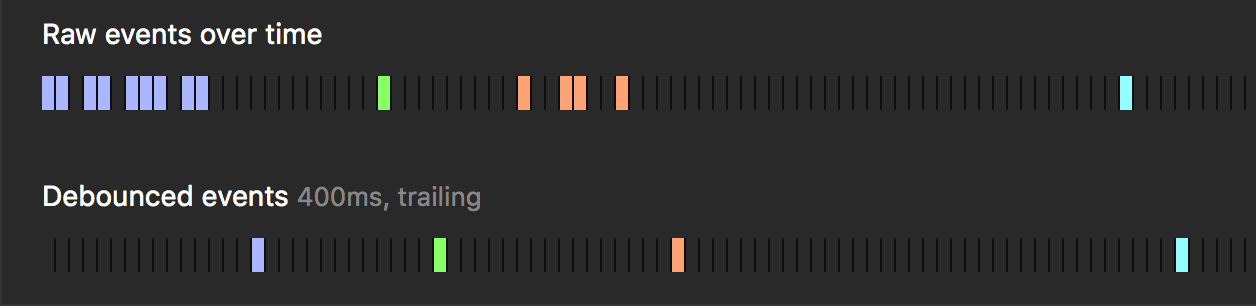
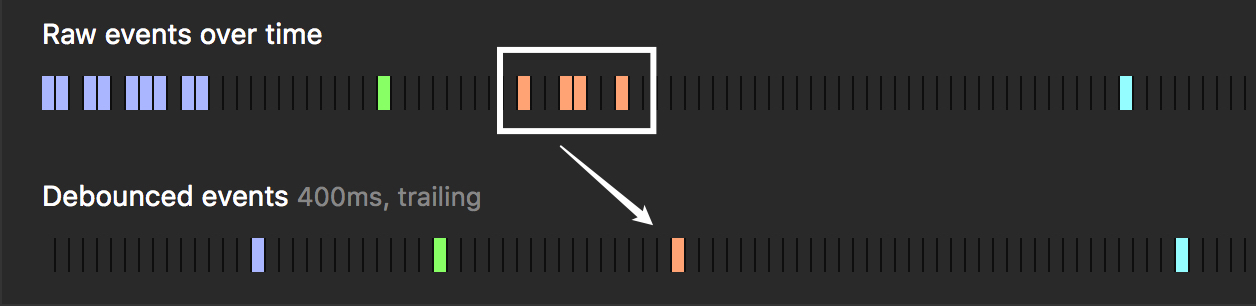
Site updated: 2017-04-12 18:57:36

diff --git a/2017/03/17/debounce-and-throttle/index.html b/2017/03/17/debounce-and-throttle/index.html
@@ -84,18 +84,19 @@
 
 
 
-<meta name="description" content="简介：总结 debounce 和 throttle 函数的使用场景">
+<meta name="description" content="简介：介绍 debounce 和 throttle 的区别和使用场景">
 <meta property="og:type" content="article">
 <meta property="og:title" content="debounce 和 throttle 总结">
 <meta property="og:url" content="http://yoursite.com/2017/03/17/debounce-and-throttle/index.html">
 <meta property="og:site_name" content="Joe">
-<meta property="og:description" content="简介：总结 debounce 和 throttle 函数的使用场景">
-<meta property="og:image" content="http://yoursite.com/images/throttle_edited.jpg">
-<meta property="og:updated_time" content="2017-04-12T09:43:20.000Z">
+<meta property="og:description" content="简介：介绍 debounce 和 throttle 的区别和使用场景">
+<meta property="og:image" content="http://yoursite.com/images/debounce.jpg">
+<meta property="og:image" content="http://yoursite.com/images/throttle.jpg">
+<meta property="og:updated_time" content="2017-04-12T10:57:21.000Z">
 <meta name="twitter:card" content="summary">
 <meta name="twitter:title" content="debounce 和 throttle 总结">
-<meta name="twitter:description" content="简介：总结 debounce 和 throttle 函数的使用场景">
-<meta name="twitter:image" content="http://yoursite.com/images/throttle_edited.jpg">
+<meta name="twitter:description" content="简介：介绍 debounce 和 throttle 的区别和使用场景">
+<meta name="twitter:image" content="http://yoursite.com/images/debounce.jpg">
 
 
 
@@ -371,20 +372,23 @@
       
 
       
-        <p>简介：总结 debounce 和 throttle 函数的使用场景<br><a id="more"></a></p>
-<h2 id="debounce"><a href="#debounce" class="headerlink" title="debounce"></a>debounce</h2><p>在最后一次调用后触发。<br><figure class="highlight javascript"><table><tr><td class="gutter"><pre><div class="line">1</div><div class="line">2</div><div class="line">3</div><div class="line">4</div><div class="line">5</div></pre></td><td class="code"><pre><div class="line"><span class="comment">// 1 表示debounced-function 的调用，0表示空闲，X表示真正的执行</span></div><div class="line"><span class="comment">// 在 delay = 2s 时，在最后一次调用后的 2s 后执行</span></div><div class="line"><span class="number">111100</span></div><div class="line">&#123;% img /images/debounce_edited.jpg %&#125;</div><div class="line">      x</div></pre></td></tr></table></figure></p>
-<p>联想：debounce 防抖动，尿完尿后，才抖一下</p>
+        <p>简介：介绍 debounce 和 throttle 的区别和使用场景<br><a id="more"></a></p>
+<h2 id="为什么需要节流函数"><a href="#为什么需要节流函数" class="headerlink" title="为什么需要节流函数"></a>为什么需要节流函数</h2><p>某些操作(如：输入监听、滚动监听)，会在短时间内频繁调用函数，造成页面卡顿。所以这时就需要节流函数来减少函数的调用频率，优化体验。但是节流函数可以分为防抖动(debounce)，节流(throttle)两种，那什么时候用防抖动，什么时候用节流呢？</p>
+<h2 id="debounce"><a href="#debounce" class="headerlink" title="debounce"></a>debounce</h2><p>debounce 把多个连续的函数调用汇总起来，然后在最后一次调用后触发。</p>
+<img src="/images/debounce.jpg">
+<p>联想：debounce 防抖动，尿完尿之后，才抖一下，而且只抖一下</p>
 <p>使用场景：</p>
 <ul>
-<li>监听搜索关键字改变（只在最后一次输入后才是有效的）</li>
+<li>输入监听，最后一次输入才是有效的输入</li>
 </ul>
-<h2 id="throttle"><a href="#throttle" class="headerlink" title="throttle"></a>throttle</h2><p>每隔一定时间触发。<br><figure class="highlight javascript"><table><tr><td class="gutter"><pre><div class="line">1</div><div class="line">2</div><div class="line">3</div><div class="line">4</div></pre></td><td class="code"><pre><div class="line"><span class="comment">// 1 表示throttled-function 的调用，0表示空闲，X表示真正的执行</span></div><div class="line"><span class="comment">// 在 delay = 2 时，每隔 2s 调用一次</span></div><div class="line"><span class="number">111111</span></div><div class="line">  x  x</div></pre></td></tr></table></figure></p>
-<img src="/images/throttle_edited.jpg">
-<p>联想：throttle 节流器，掐紧水管，每 delay 秒只滴一滴</p>
+<h2 id="throttle"><a href="#throttle" class="headerlink" title="throttle"></a>throttle</h2><p>throttle 限制函数调用，在固定时间内只会触发一次</p>
+<img src="/images/throttle.jpg">
+<p>联想：throttle 节流器，掐紧水管，固定的时间只能滴一滴</p>
 <p>使用场景：</p>
 <ul>
-<li>滚动检查（此时不能用 debounce 因为他会在停下来时才触发）</li>
+<li>滚动监听，此时不能用 debounce 因为他会在停下来时才触发</li>
 </ul>
+<h2 id="总结"><a href="#总结" class="headerlink" title="总结"></a>总结</h2><p>debounce 是在多次函数调用，但只有一次是有效时使用，即在最后才抖一抖。throttle 是在多次函数调用且都有效，但需要减少频率时使用。或者说只有一次有效时用 debounce 函数，其他的就用 throttle 函数。</p>
 
       
     </div>
@@ -552,7 +556,7 @@
             
 
             
-              <div class="post-toc-content"><ol class="nav"><li class="nav-item nav-level-2"><a class="nav-link" href="#debounce"><span class="nav-number">1.</span> <span class="nav-text">debounce</span></a></li><li class="nav-item nav-level-2"><a class="nav-link" href="#throttle"><span class="nav-number">2.</span> <span class="nav-text">throttle</span></a></li></ol></div>
+              <div class="post-toc-content"><ol class="nav"><li class="nav-item nav-level-2"><a class="nav-link" href="#为什么需要节流函数"><span class="nav-number">1.</span> <span class="nav-text">为什么需要节流函数</span></a></li><li class="nav-item nav-level-2"><a class="nav-link" href="#debounce"><span class="nav-number">2.</span> <span class="nav-text">debounce</span></a></li><li class="nav-item nav-level-2"><a class="nav-link" href="#throttle"><span class="nav-number">3.</span> <span class="nav-text">throttle</span></a></li><li class="nav-item nav-level-2"><a class="nav-link" href="#总结"><span class="nav-number">4.</span> <span class="nav-text">总结</span></a></li></ol></div>
             
 
           </div>

diff --git a/index.html b/index.html
@@ -374,7 +374,7 @@
 
       
         
-          <p>简介：总结 debounce 和 throttle 函数的使用场景<br>
+          <p>简介：介绍 debounce 和 throttle 的区别和使用场景<br>
           <!--noindex-->
           <div class="post-more-link text-center">
             <a class="btn" href="/2017/03/17/debounce-and-throttle/#more" rel="contents">
